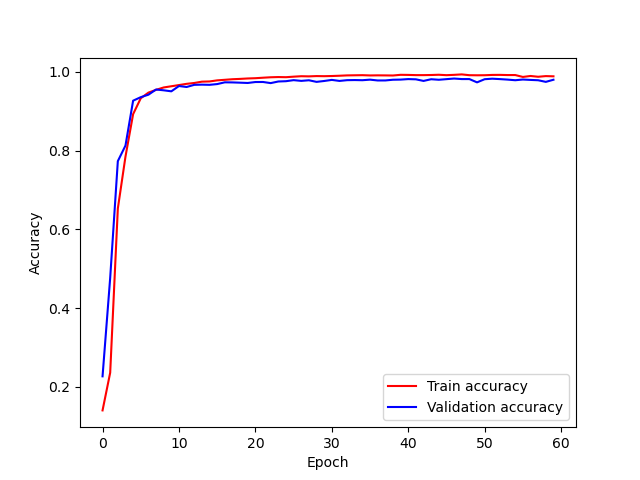
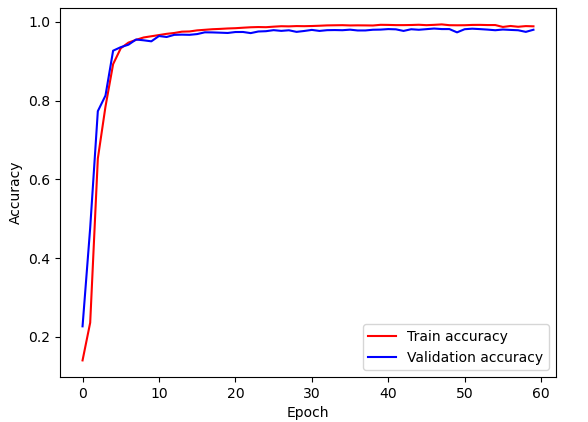
Biweekly meeting 6

diff --git a/Classifiyng MNIST/trying_m_digits.py b/Classifiyng MNIST/trying_m_digits.py
@@ -62,14 +62,13 @@ nVal = int(0.8 * N)
 
 # The decomposition
 t = time()
-K = tucker(tl.tensor(X_sub[:nTrain]), ranks=[500,28,28])
+K = tucker(tl.tensor(X_sub[:nTrain]), ranks=[15,28,28])
 print("Time was: ", time()-t)
 A, B, C = K[1]
 core = K[0]
 
 X_hat = tl.tucker_to_tensor(K)
 
-plt.close('all')
 plotMany(X_sub, 10, 10)
 plotMany(X_hat, 10, 10)
 
@@ -141,5 +140,5 @@ print(net)
 dataDecomp = Data(A, Y_sub[:nTrain], A_new[:(nVal-nTrain)], Y_sub[nTrain:nVal], A_new[(nVal-nTrain):], Y_sub[nVal:], normalize = False)
 
 # %% Training the decomposed network
-optimizer = optim.SGD(net.parameters(), lr = 0.2, momentum = 0.7)
+optimizer = optim.SGD(net.parameters(), lr = 0.1, momentum = 0.7)
 training(net, dataDecomp, 100, 500, optimizer, every = 5)

diff --git a/Classifiyng MNIST/MNIST_Tucker.py b/Classifiyng MNIST/MNIST_Tucker.py
@@ -291,8 +291,8 @@ netDec = deepcopy(net)
 
 netDec.conv1 = conv_to_tucker1(netDec.conv1, 2)
 netDec.conv2 = conv_to_tucker2(netDec.conv2, [4, 8])
-netDec.l1 = lin_to_tucker2(netDec.l1, [200, 40])
-netDec.l2 = lin_to_tucker1(netDec.l2, 30)
+netDec.l1 = lin_to_tucker2(netDec.l1, [50, 10])
+netDec.l2 = lin_to_tucker1(netDec.l2, 10)
 
 # The change in number of parameters
 print("Before: {}, after: {}, which is {:.3}".format(numParams(net), numParams(netDec), numParams(netDec) / numParams(net)))
